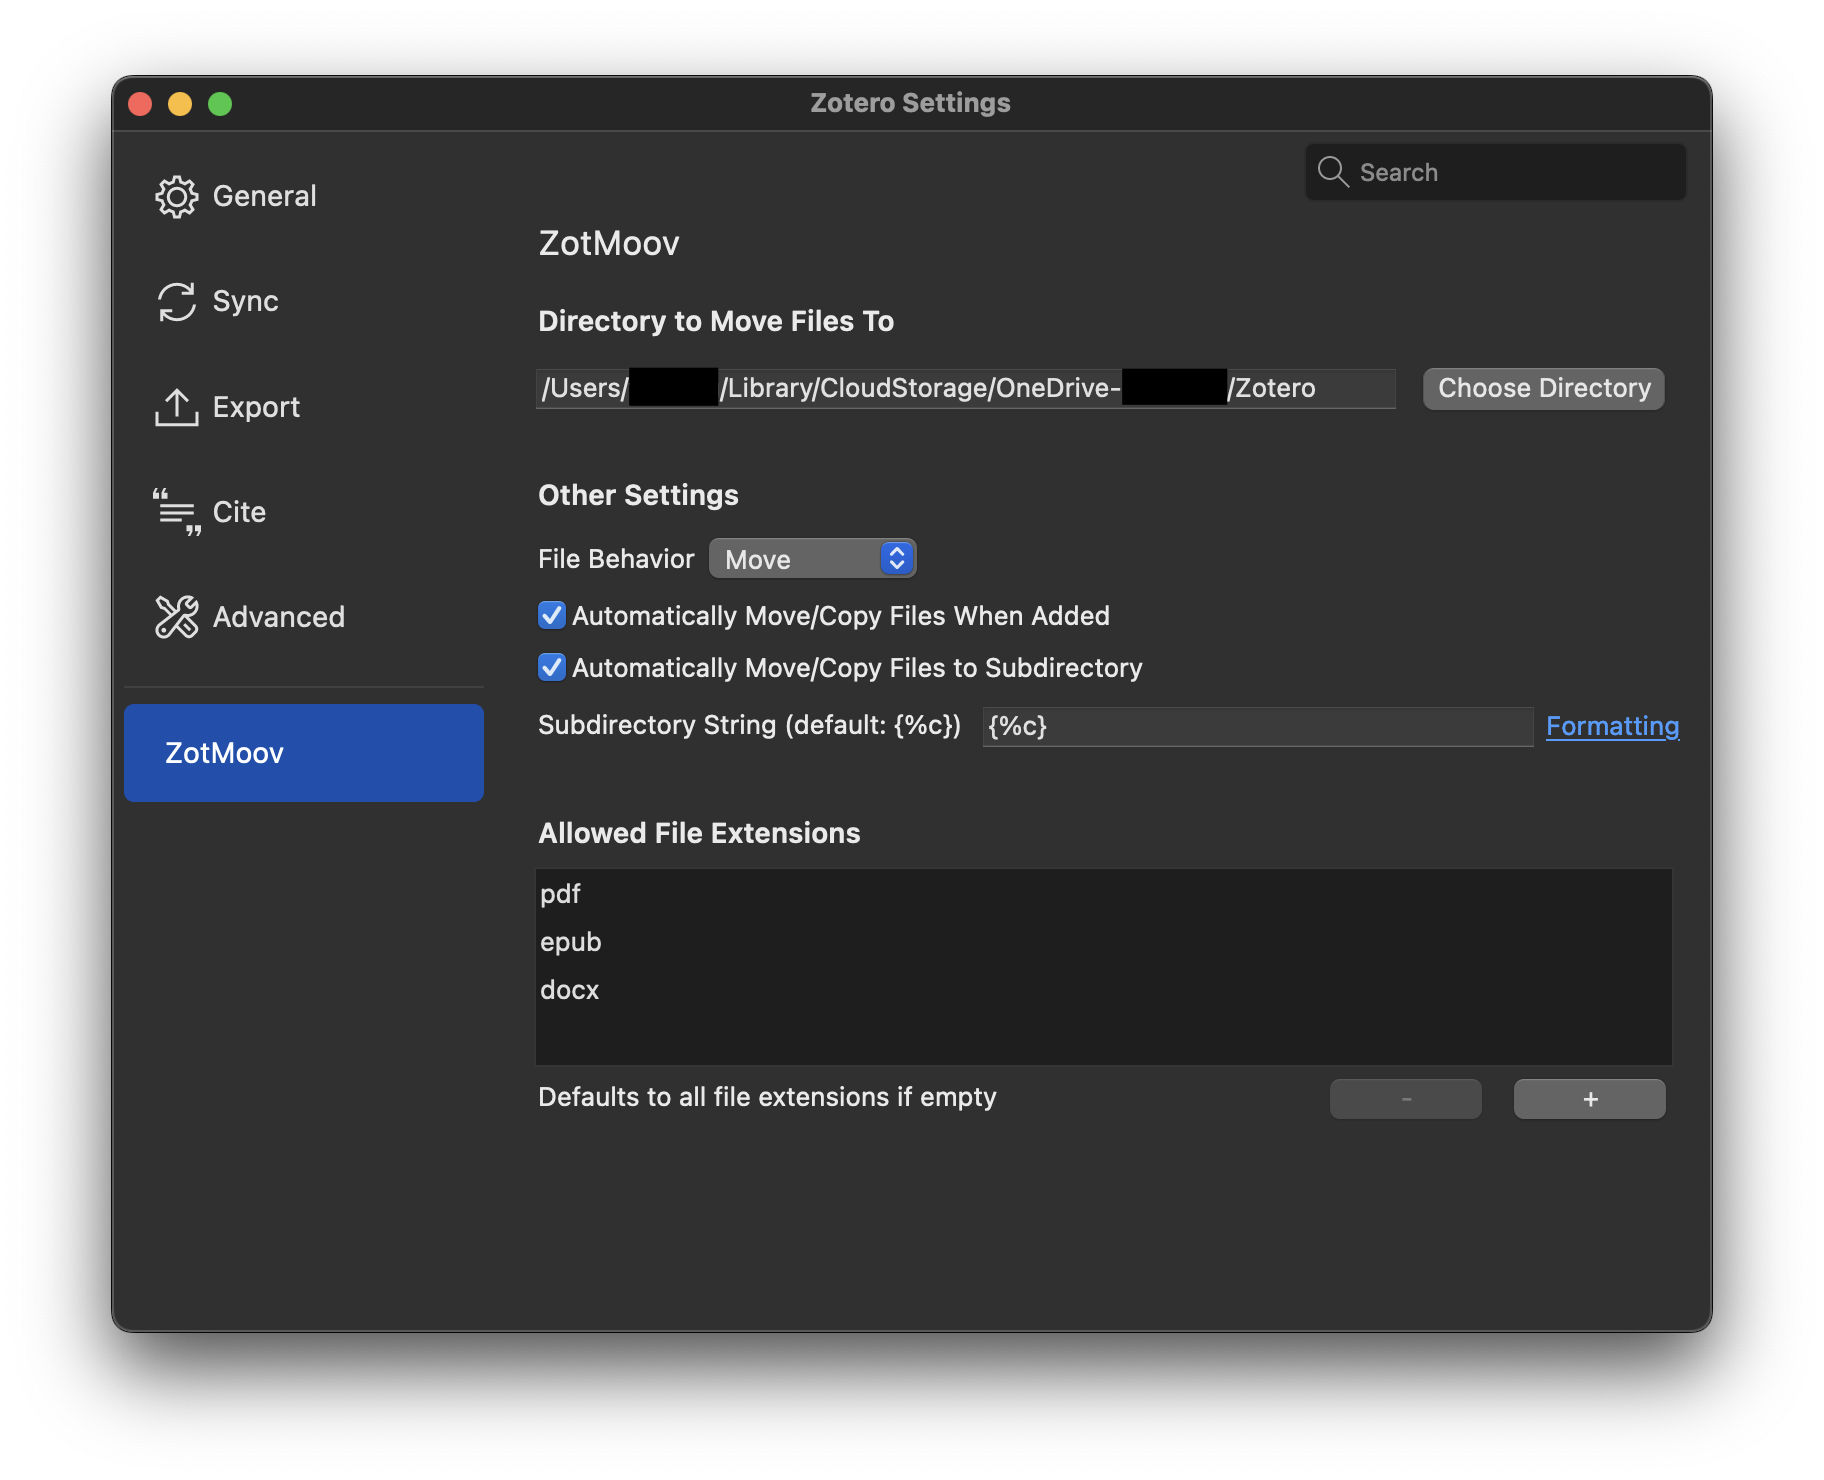
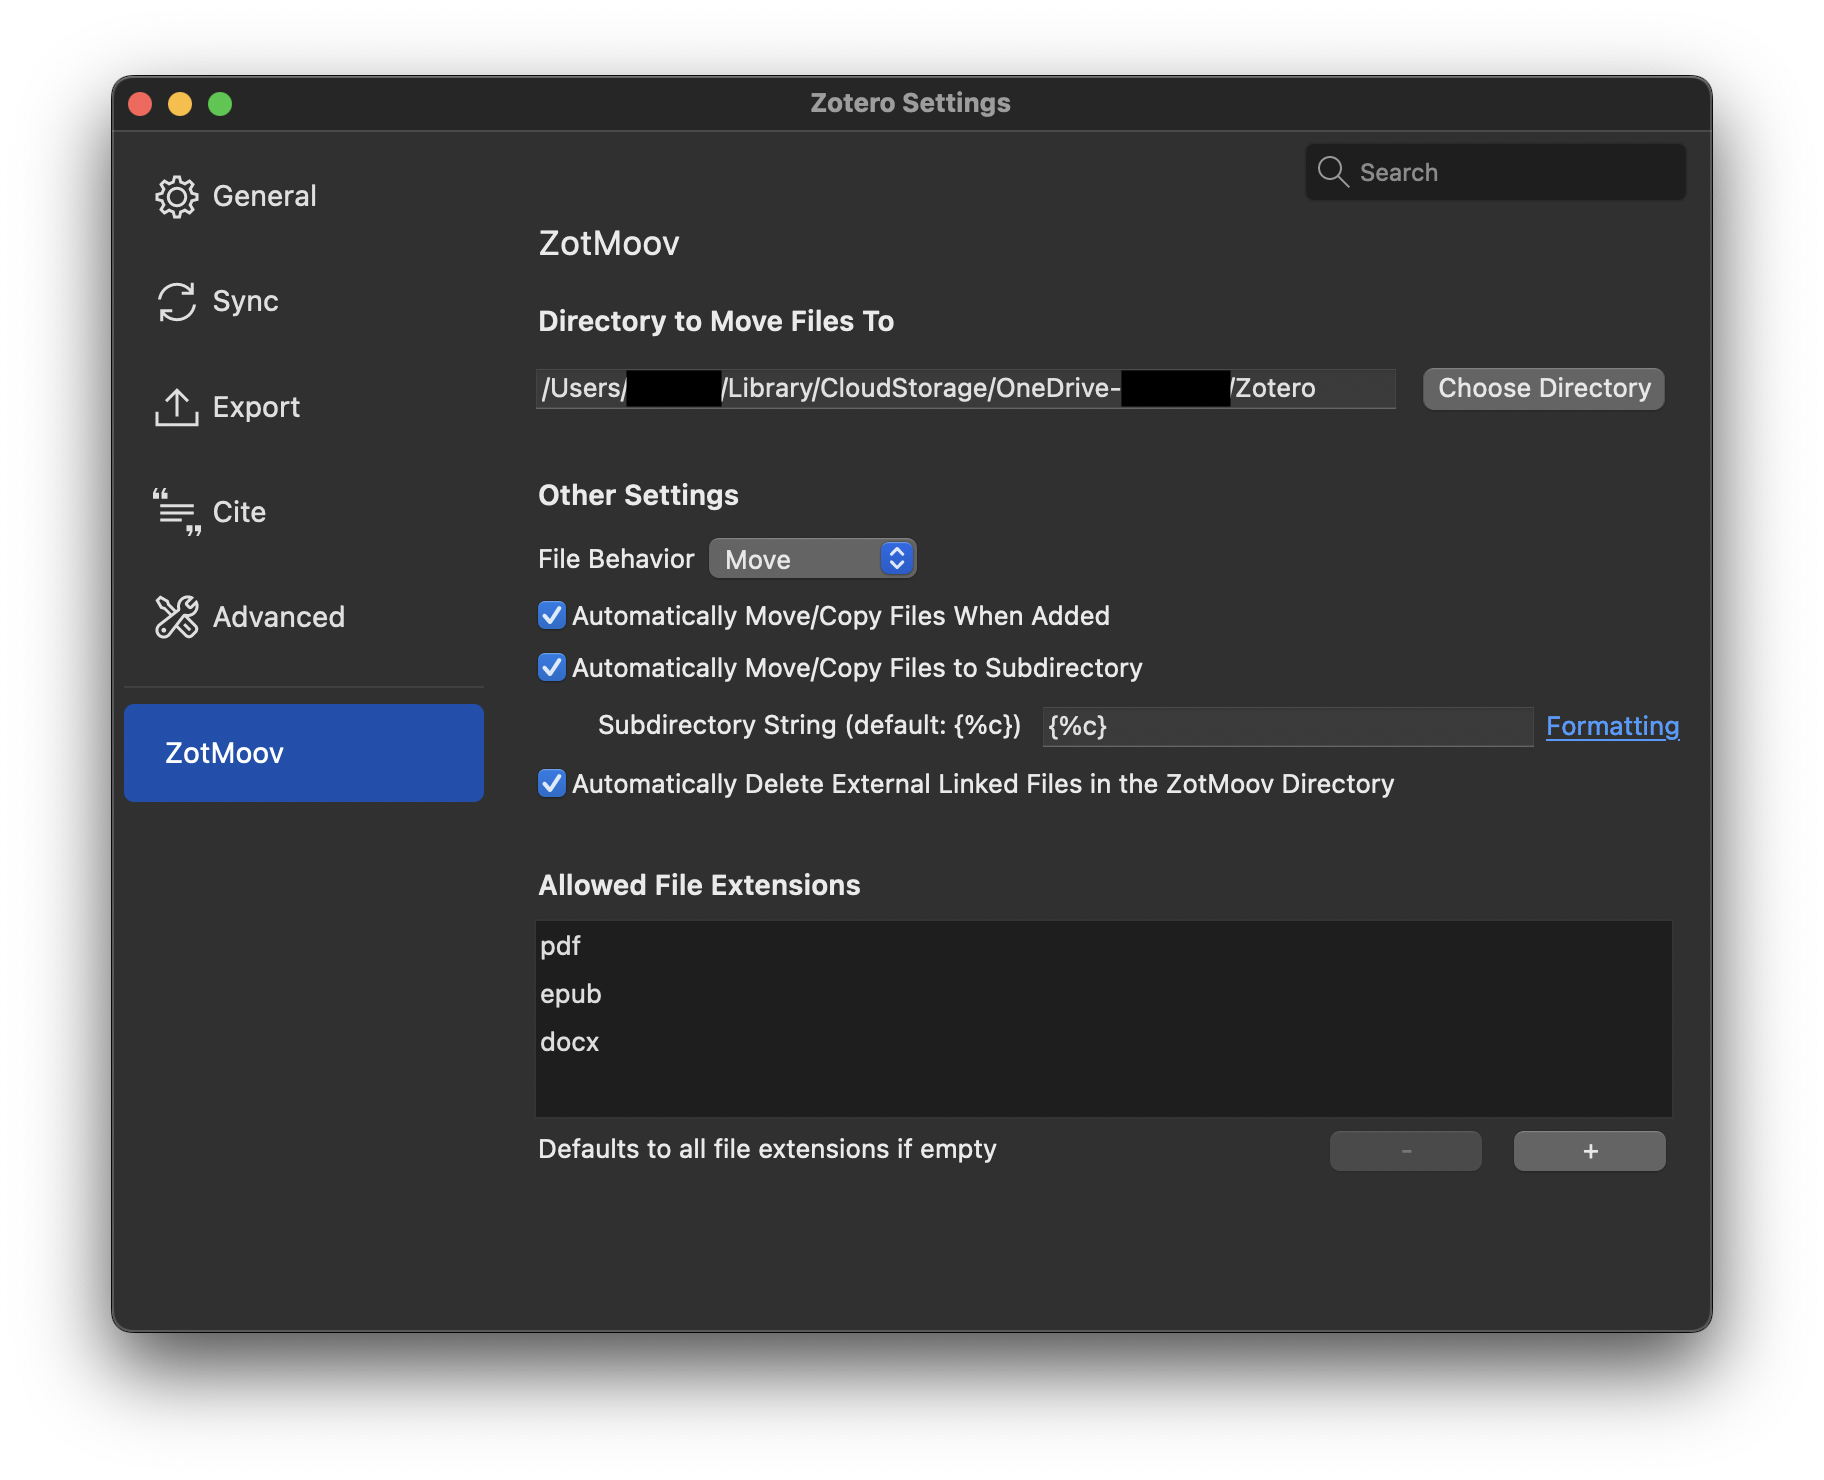
Update README

diff --git a/README.md b/README.md
@@ -43,6 +43,10 @@ By default ZotMoov will move and link your files. You can change the dropdown me
 
 When this is enabled, ZotMoov will automatically move files into a custom subdirectory. By default it is `{%c}` which is by item collection. [Click here for the formatting options](https://github.com/wileyyugioh/zotmoov/blob/master/docs/WILDCARD_INFO.md)
 
+### Automatically Delete External Linked Files in the ZotMoov Directory
+
+When this is enabled, ZotMoov will automatically delete linked files in the ZotMoov Directory. Meaning that when you trash/permanently delete a file with this option enabled in Zotero, and it is a linked file in the ZotMoov directory, it will also get deleted on your hard drive.
+
 ### Allowed File Extensions
 
 By adding/removing entries to this table via the [+] and [-] buttons, you can choose which types of files ZotMoov will automatically move. If the table is empty, then all files will be moved regardless of their file extension.
